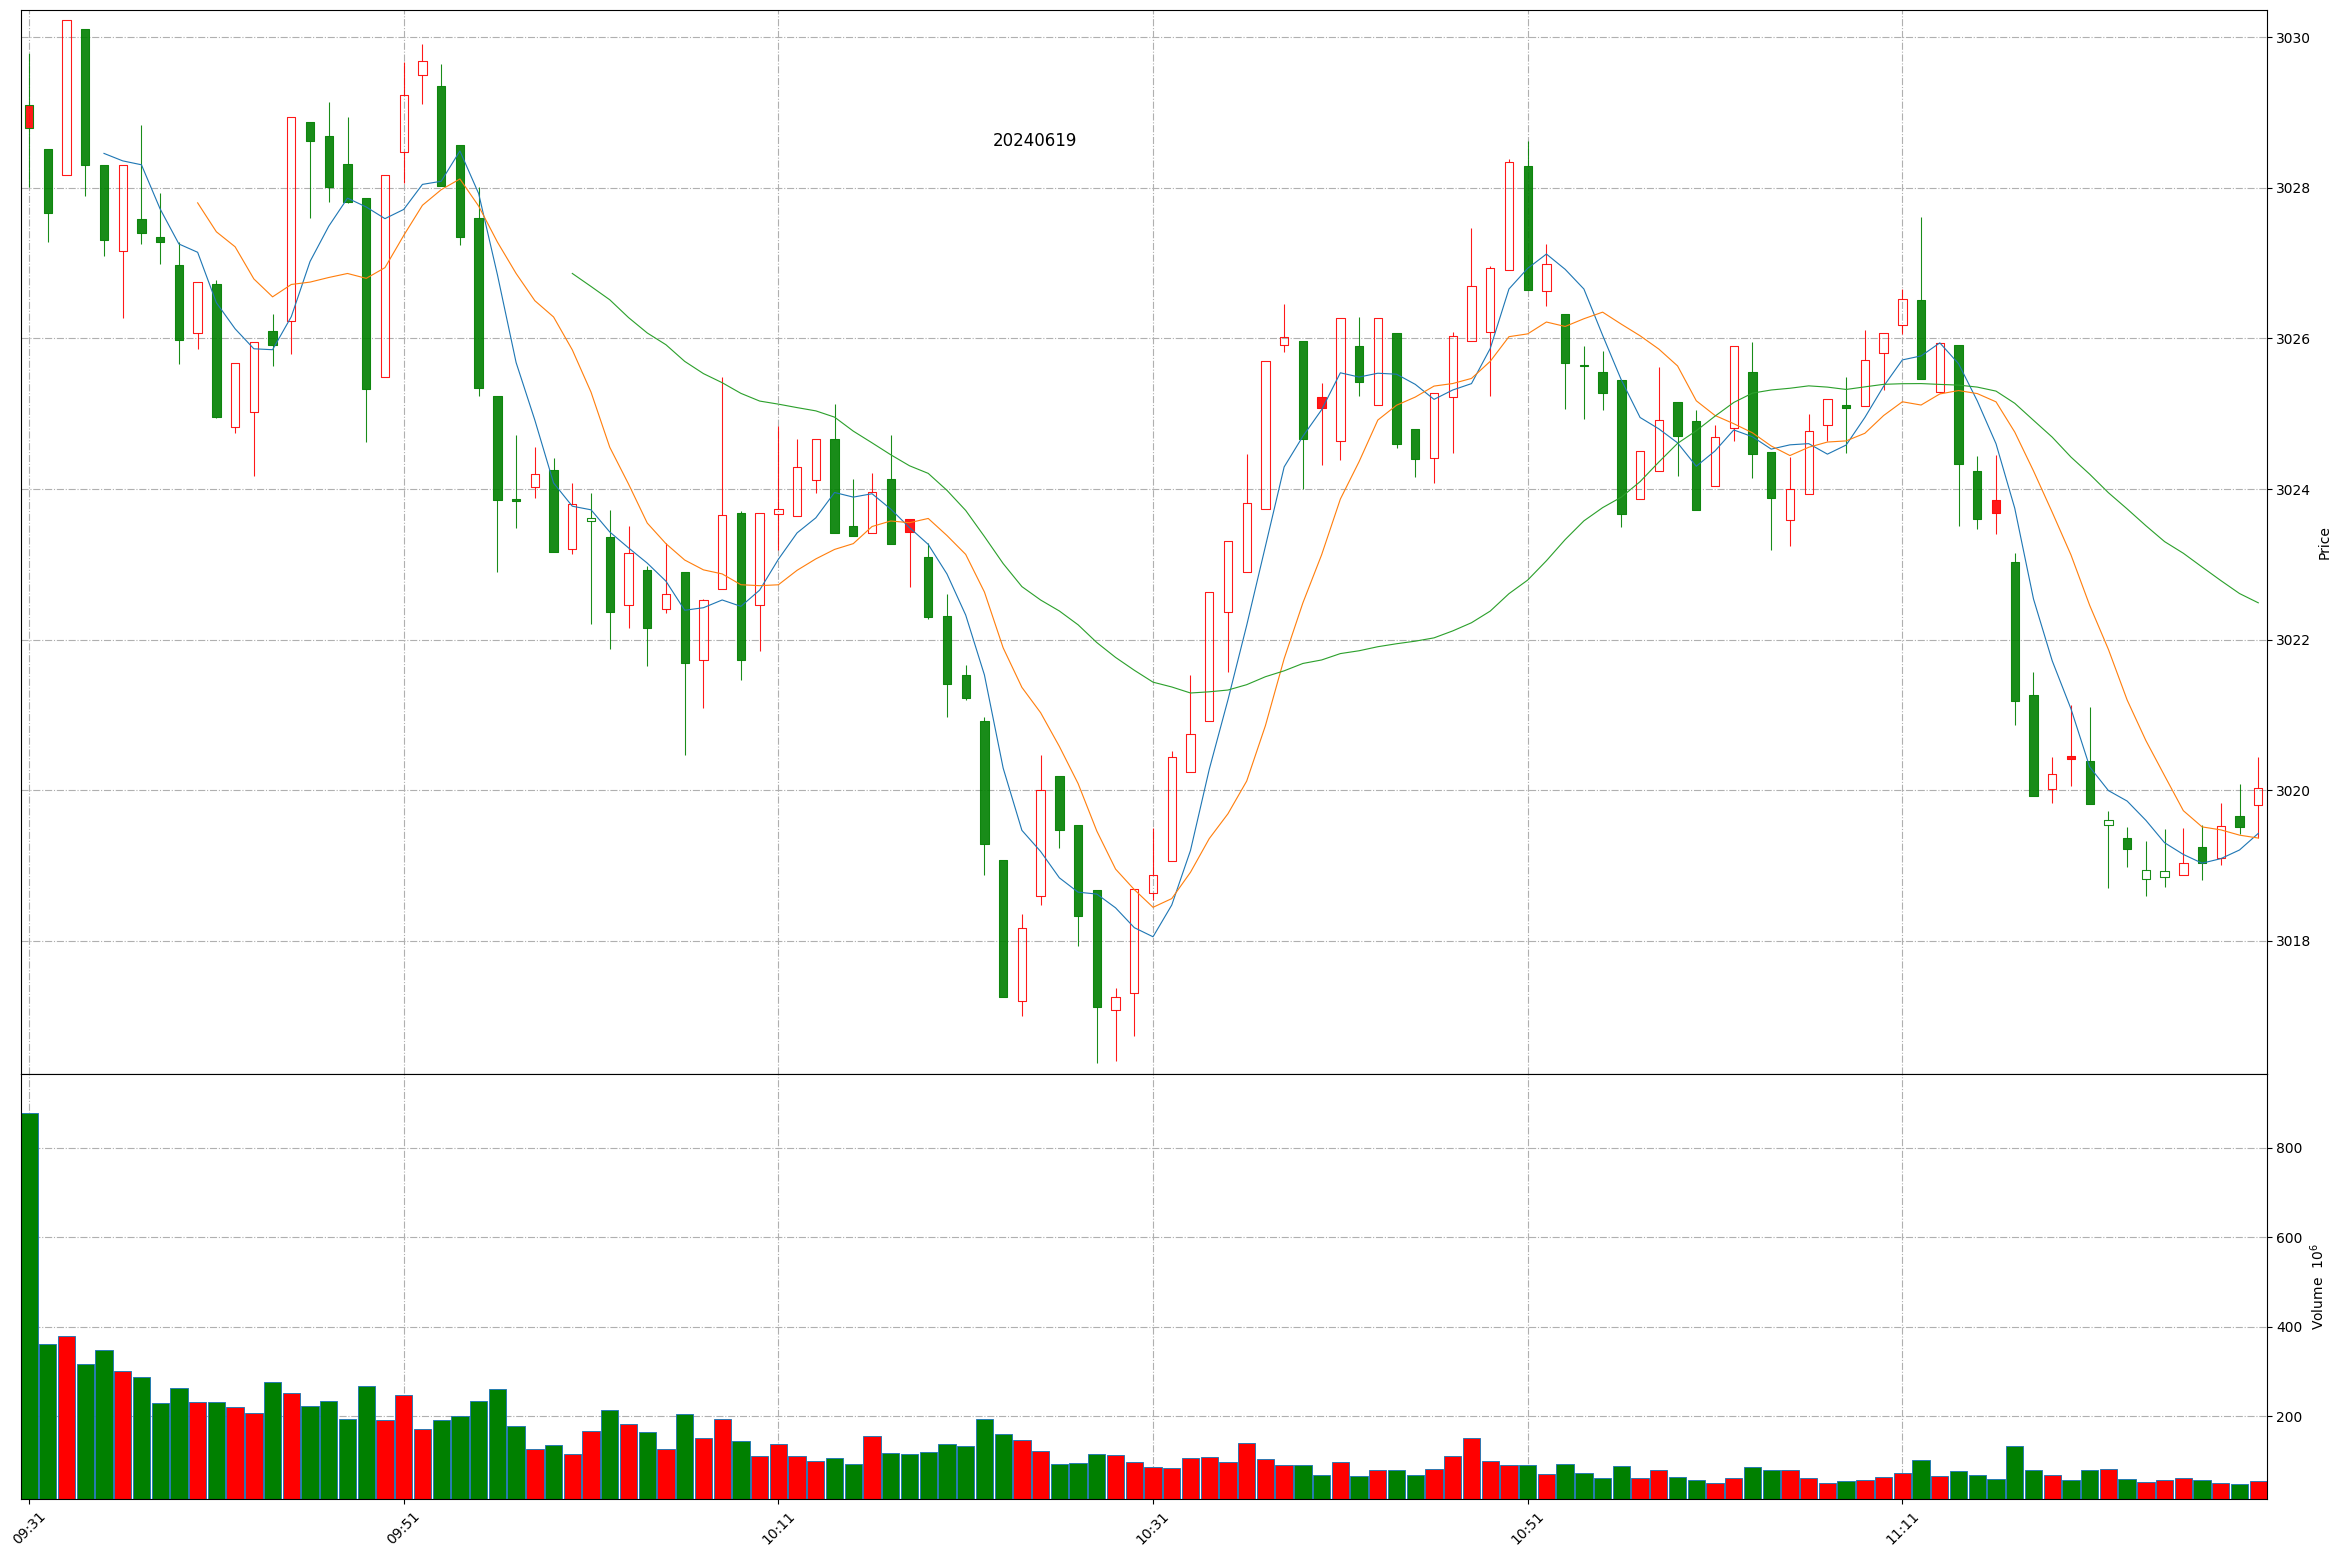
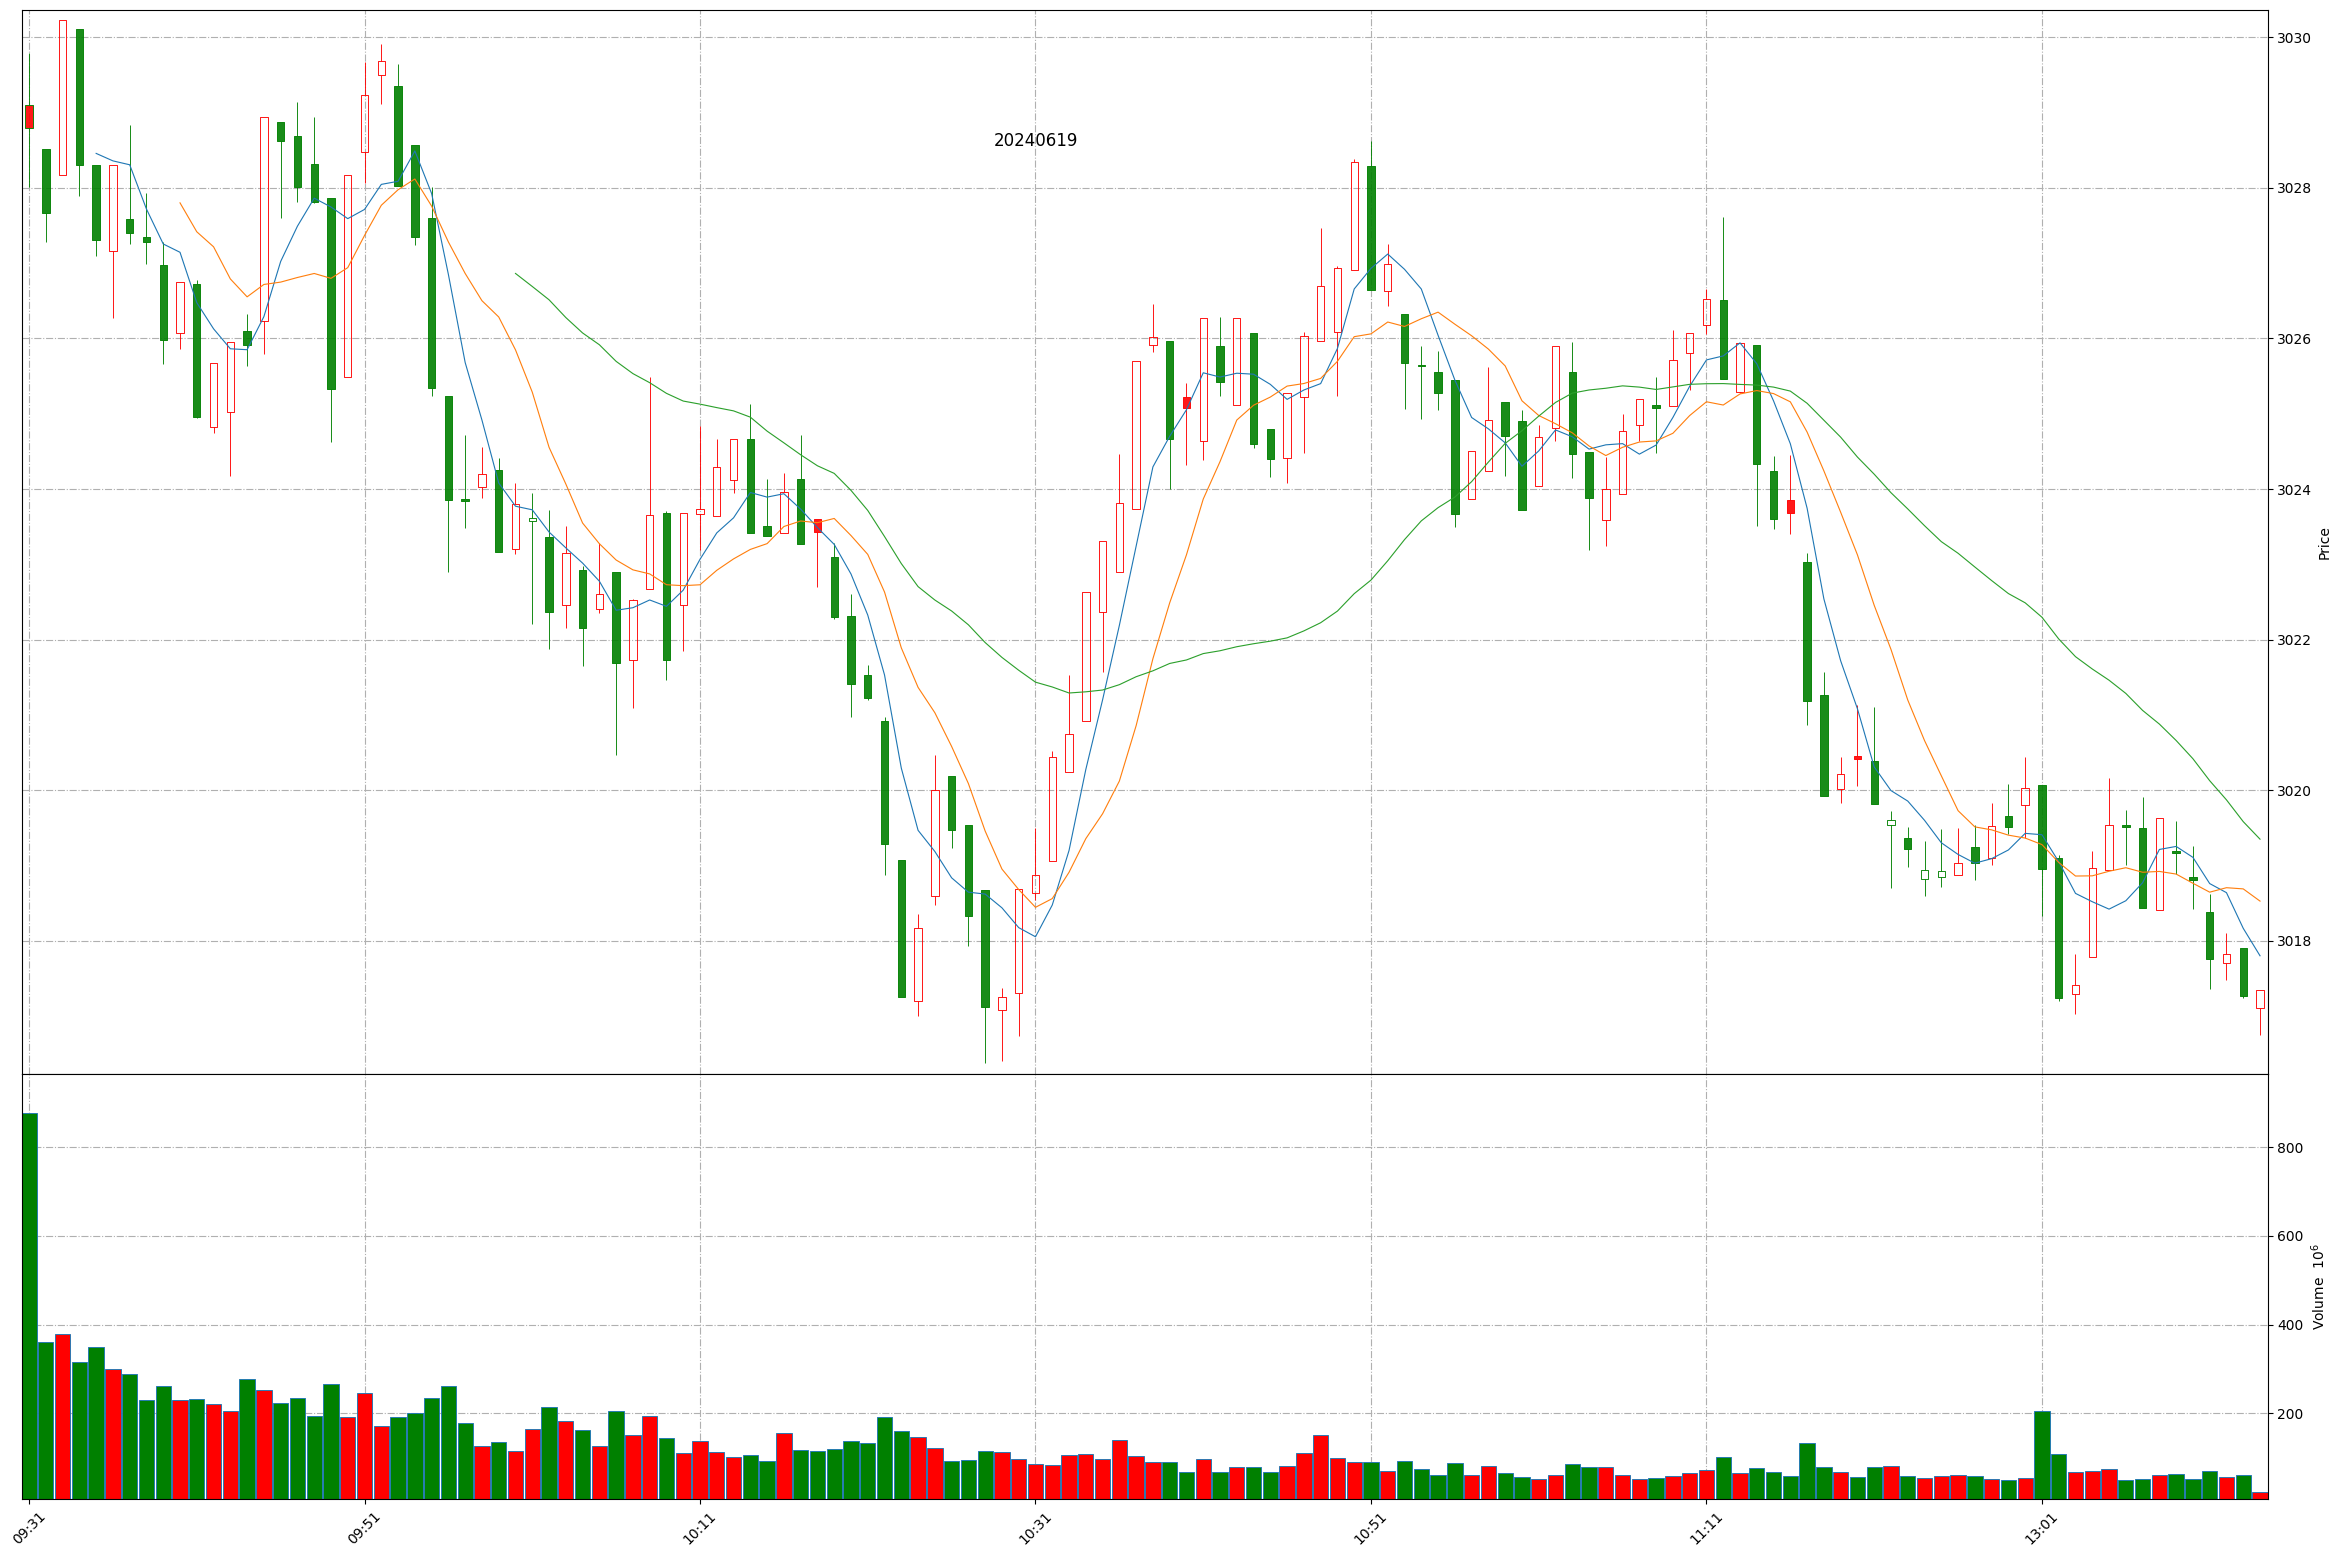
Github action update at 2024-06-19 13:13:38.

diff --git a/README.md b/README.md
@@ -1,11 +1,11 @@
 
 # Daily-A-share-market-quotes 每日 A 股指数（5min 更新）- 20240619
 
-### 上证指数 20240619 11:35
+### 上证指数 20240619 13:13
 ![](./fig/2024/6/20240619-sh000001.png)
 
-### 深证成指 20240619 11:35
+### 深证成指 20240619 13:13
 ![](./fig/2024/6/20240619-sz399001.png)
 
-### 北证50 20240619 11:35
+### 北证50 20240619 13:13
 ![](./fig/2024/6/20240619-bj899050.png)
